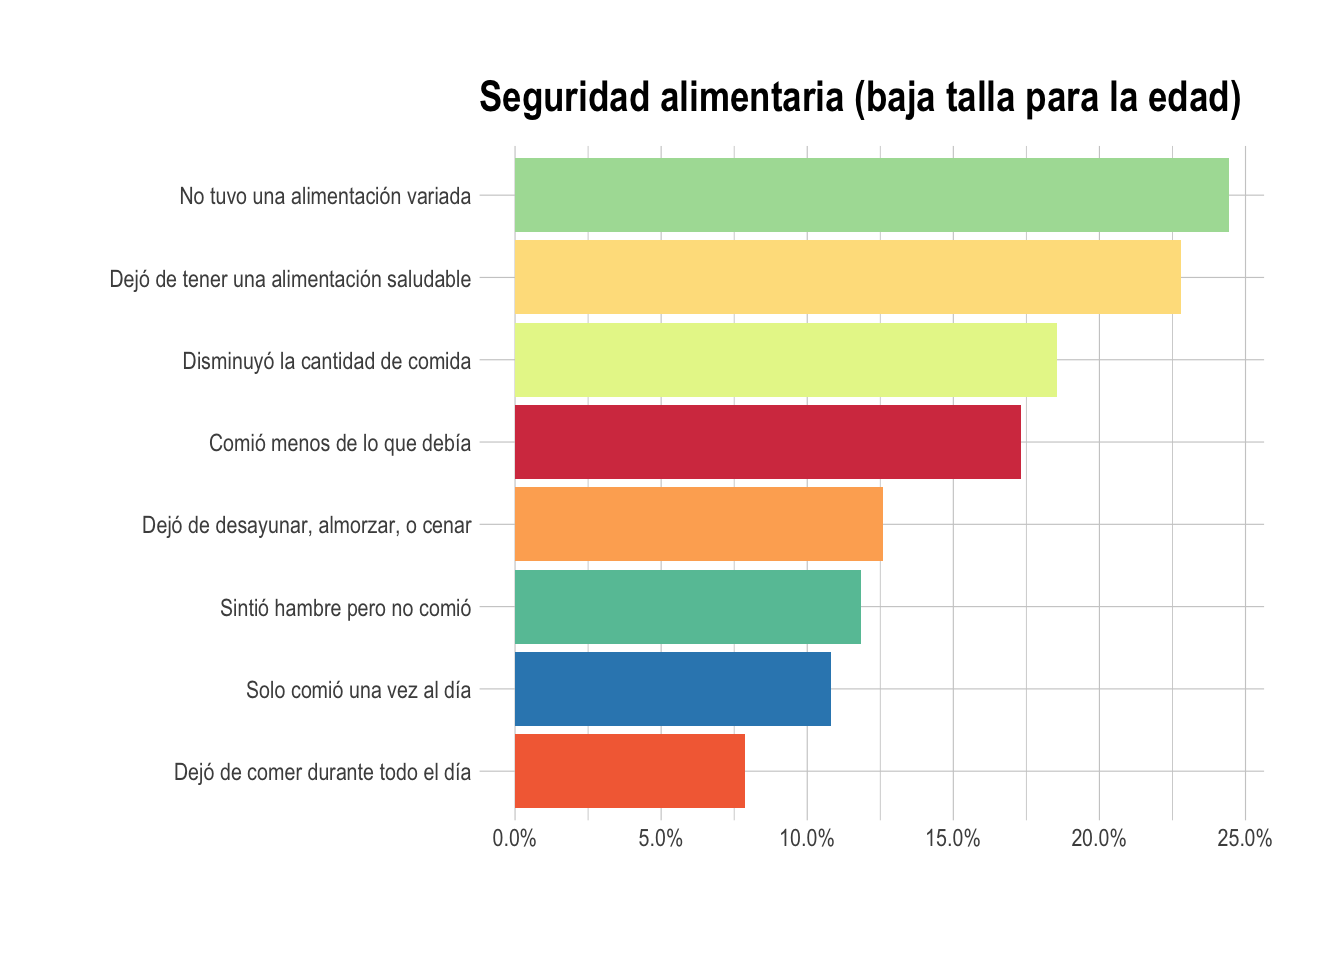
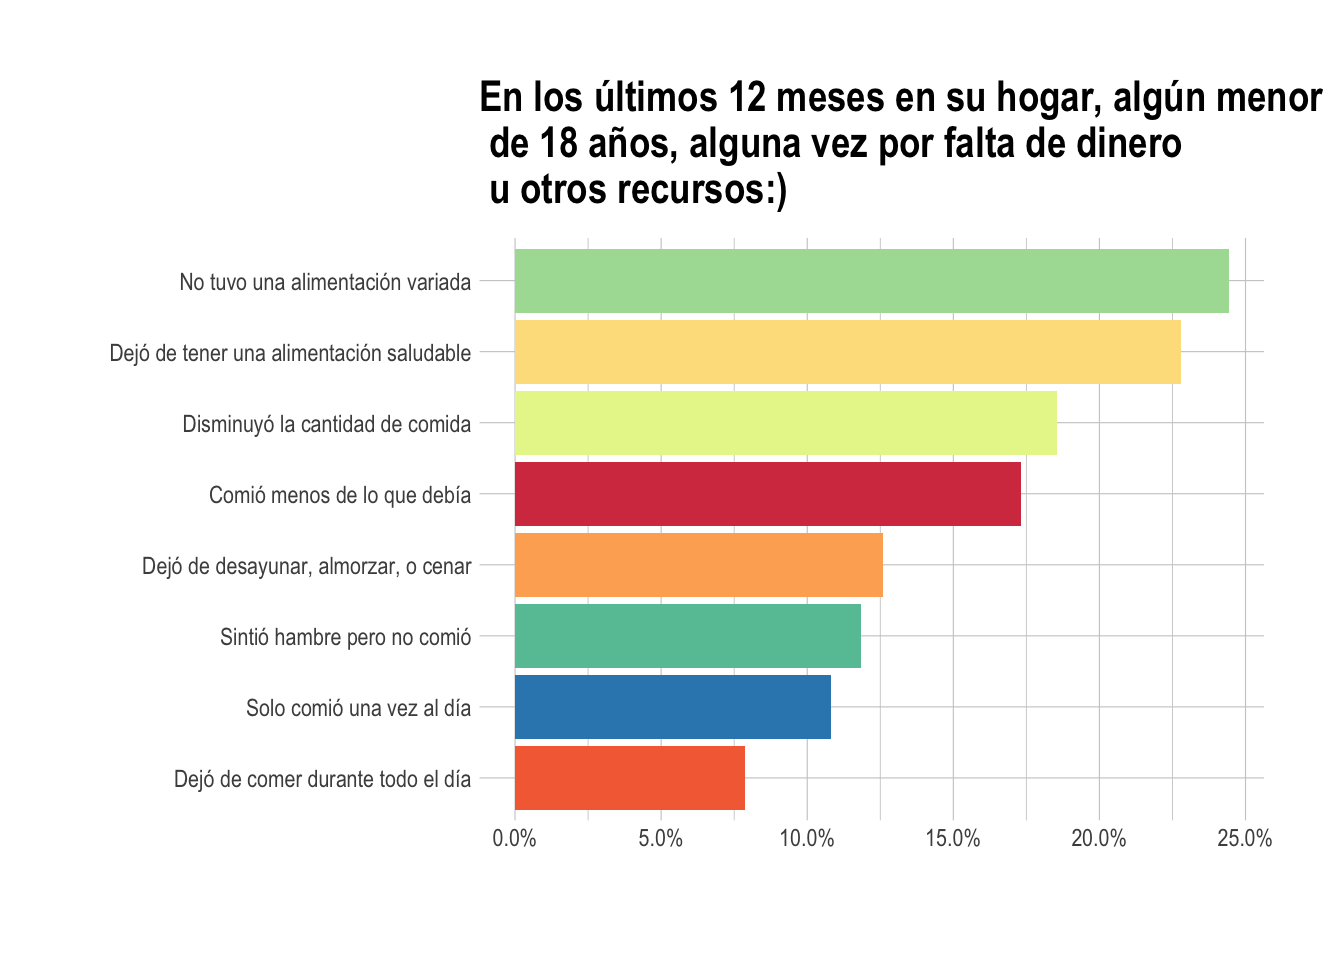
update

diff --git a/content/post/salud/2020-09-13-uno-de-cada-cuatro-ninos-en-ecuador-padece-de-desnutricion.html b/content/post/salud/2020-09-13-uno-de-cada-cuatro-ninos-en-ecuador-padece-de-desnutricion.html
@@ -35,6 +35,9 @@ nocite: |
 <p><a href="https://en.wikipedia.org/wiki/Amartya_Sen#Research_work">Amartya Sen</a> argumenta que las hambrunas no solo ocurren por la escasez de alimentos, sino también por las desigualdades en la distribución de alimentos y al alza de precios. Este segundo, en concreto, afecta significativamente a los pobres, especialmente cuando los precios de los alimentos suben, pero no los ingresos. Esto se debe a que los más pobres asignan una mayor porción de sus ingresos en comida.</p>
 <p>En la encuesta ENSANUT se pregunta al jefe o la jefa de hogar si por falta de ingresos algún menor de 18 años dejó de comer o sintió hambre en los últimos 12 meses. A continuación, mostramos los resultados para los hogares de los menores de cinco años con retraso en su crecimiento (baja talla para la edad). Toma también en cuenta que estos porcentajes agrupan a cualquier menor de 18 años y no solamente a nuestra población de interés por lo que los porcentajes pueden estar sobreestimados.</p>
 <p><img src="/post/salud/2020-09-13-uno-de-cada-cuatro-ninos-en-ecuador-padece-de-desnutricion_files/figure-html/unnamed-chunk-4-1.png" width="90%" style="display: block; margin: auto;" /></p>
+<p style="line-height:80%">
+<font size="1"><i>Esta es una pregunta donde el encuestado puede seleccionar múltiples respuestas. Por lo tanto, los porcentajes puedes sumar más de 100%.</i></font>
+</p>
 <p>Como podrás observar, a al menos a un cuarto de niños desnutridos parece afectarles la falta de ingresos. Más impresionante que eso, un de cada diez dejó de recibir alguna comida del día o, peor aún, no comió en todo el día. <strong>¡Ojo! No sabemos ni contamos con cifras para estimar cuánto ha impactado la crisis sanitaria del covid-19 a la salud alimentaria de los hogares más vulnerables del Ecuador.</strong> Sin embargo, temo que el impacto es alto y, de ser así, acarreará grandes consecuencias a largo plazo. <a href="https://www.jstor.org/stable/10.1086/507154?seq=1#metadata_info_tab_contents">Doug Almond</a> encontró que quienes estaban en el últero durante la pandemia de gripe de 1918 padecían más enferemedades y tenía una esperanza de vida más corta.</p>
 </div>
 <div id="dieta" class="section level5">
